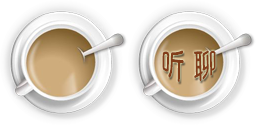
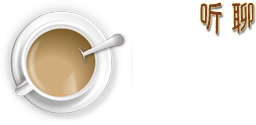
拆分听聊为2个链接

Changed region(s): [[0.5, 0.0, 1.0, 0.96]]

diff --git a/links123/src/Public/Index/css/index.css b/links123/src/Public/Index/css/index.css
@@ -35,8 +35,18 @@ a,a:hover{ text-decoration: none; }
 	z-index: 2;
 }
 .wrap{ margin-bottom: 100px; }
+/*听聊*/
+.coffee,
+.coffee .ting,
+.coffee .liao{
+	background: url(../imgs/coffee.png?2013082302) 0 0 no-repeat;
+}
+.coffee:hover .ting,
+.coffee:hover .liao{
+	display: block;
+}
 .coffee{
-	background: url(../imgs/coffee.png?20130823) 0 0 no-repeat;
+	background-position: 0 0;
 	bottom: 10px;
 	display: block;
 	height: 125px;
@@ -47,7 +57,24 @@ a,a:hover{ text-decoration: none; }
 	width: 128px;
 	z-index: 3;
 }
-.coffee:hover{ background-position: -128px 0; }
+.coffee .ting,
+.coffee .liao{
+	display: none;
+	width: 26px;
+	text-indent: -999px;
+	overflow: hidden;
+	height: 36px;
+	position: absolute;
+	top: 48px;
+}
+.coffee .ting{
+	background-position: -199px 0;
+	left: 32px;
+}
+.coffee .liao{
+	background-position: -230px 0;
+	right: 40px;
+}
 
 /*分辨率宽度*/
 .w1000 .wrap,

diff --git a/links123/src/App/Tpl/Home/Index/new_index.html b/links123/src/App/Tpl/Home/Index/new_index.html
@@ -192,7 +192,10 @@
 				</ul>
 			</div>
 		</div>
-		<a class="coffee" href="javascript:void(0);">咖啡</a>
+		<a class="coffee" href="javascript:void(0);">
+			<b class="ting" onclick="javascript:alert('听');" href="javascript:void(0);">听</b>
+			<b class="liao" onclick="javascript:alert('聊');"href="javascript:void(0);">聊</b>
+		</a>
 	</div>
 	
 	<include file="Contorls:app" />
